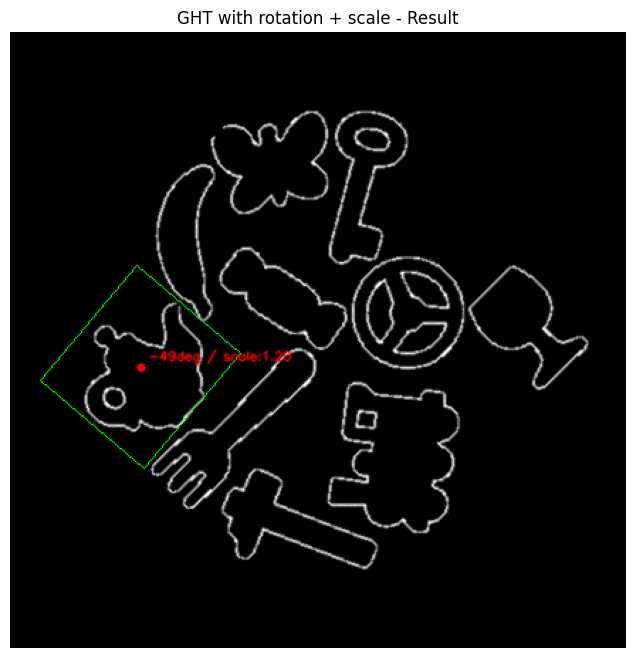
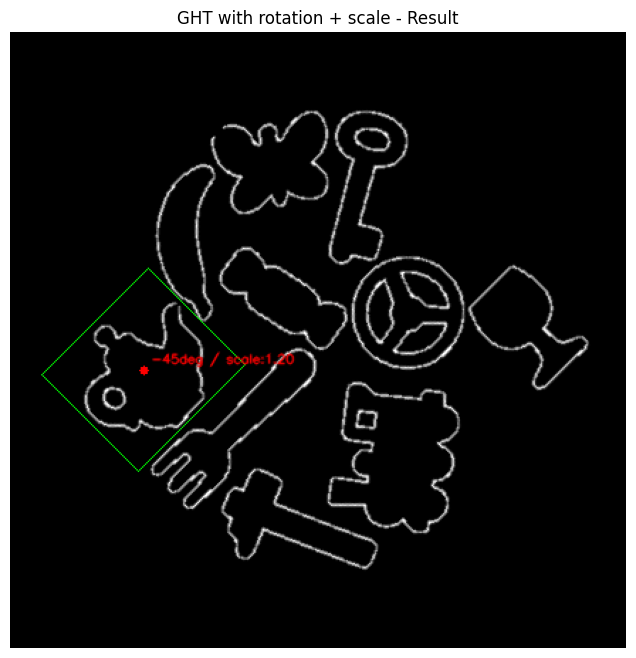
update: result

diff --git a/HW3/GHT_with_rotation_and_scaling.py b/HW3/GHT_with_rotation_and_scaling.py
@@ -26,8 +26,8 @@ ref_gray = cv2.cvtColor(reference, cv2.COLOR_BGR2GRAY)
 # ==========================================================
 
 # ---- 可調參數 ----
-scale_factor = 0.5    # 影像縮放倍率（0.1 ~ 10），1.0 表示不縮放
-pre_rotate_angle = 60 # 旋轉角度（度）0 表示不旋轉
+scale_factor = 1.2    # 影像縮放倍率（0.1 ~ 10），1.0 表示不縮放(目前固定[1.0, 0.8, 1.2])
+pre_rotate_angle = 45  # 旋轉角度（度）0 表示不旋轉
 
 # ---- Step 1：影像縮放（不強制）----
 if scale_factor != 1.0:
@@ -88,7 +88,7 @@ ref_dir  = gradient_direction(ref_gray)
 h, w = temp_edges.shape
 xc, yc = w // 2, h // 2  # 範本中心
 
-NBINS = 60  # 方向量化數（template edge orientation bins）
+NBINS = 120  # 方向量化數（template edge orientation bins）
 def quantize_angle(theta, nbins=NBINS):
     # theta ∈ (-pi, pi) -> 0..nbins-1
     bin_id = int(((theta + np.pi) / (2*np.pi)) * nbins)
@@ -118,7 +118,7 @@ print("R-table 建立完成，範本邊緣點數：", len(xs_t))
 H, W = ref_edges.shape
 
 # Rotation bins
-N_ROT = 36
+N_ROT = 120
 rot_angles = np.linspace(-np.pi, np.pi, N_ROT, endpoint=False)
 
 # Scale bins（假設要搜尋多個縮放倍率）

diff --git a/HW3/GHT_with_rotation.py b/HW3/GHT_with_rotation.py
@@ -24,7 +24,7 @@ ref_gray = cv2.cvtColor(reference, cv2.COLOR_BGR2GRAY)
 # ==========================================================
 # 1.5 (選填) 精準旋轉 Reference 影像（自動擴張避免裁切）
 # ==========================================================
-pre_rotate_angle = 30  # <-- 設定角度
+pre_rotate_angle = 45  # <-- 設定角度
 
 if pre_rotate_angle != 0:
     angle = np.radians(pre_rotate_angle)
@@ -71,7 +71,7 @@ ref_dir  = gradient_direction(ref_gray)
 h, w = temp_edges.shape
 xc, yc = w // 2, h // 2  # 範本中心
 
-NBINS = 60  # 方向量化數（template edge orientation bins）
+NBINS = 120  # 方向量化數（template edge orientation bins）
 def quantize_angle(theta, nbins=NBINS):
     # theta ∈ (-pi, pi) -> 0..nbins-1
     bin_id = int(((theta + np.pi) / (2*np.pi)) * nbins)
@@ -101,7 +101,7 @@ print("R-table 建立完成，範本邊緣點數：", len(xs_t))
 H, W = ref_edges.shape
 
 # Rotation bins: 要檢查的離散旋轉角度（弧度）
-N_ROT = 36
+N_ROT = 120
 rot_angles = np.linspace(-np.pi, np.pi, N_ROT, endpoint=False)
 
 # 3D accumulator: (H, W, N_ROT)

diff --git a/HW3/GHT.py b/HW3/GHT.py
@@ -47,7 +47,7 @@ h, w = temp_edges.shape
 xc, yc = w // 2, h // 2
 
 # 方向量化
-NBINS = 60
+NBINS = 120
 def quantize_angle(theta):
     # theta ∈ (-pi, pi)
     bin = int(((theta + np.pi) / (2*np.pi)) * NBINS)
